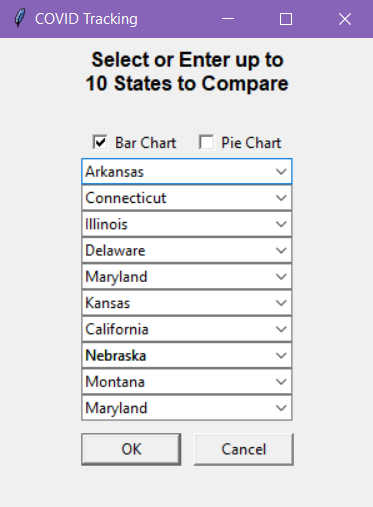
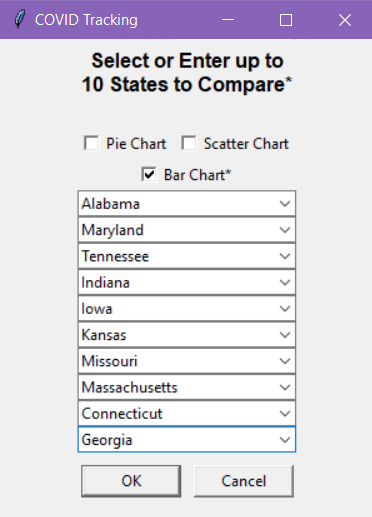
Formatting Scatter Plot

diff --git a/src/dialog.py b/src/dialog.py
@@ -135,7 +135,7 @@ class CompareDialog(Dialog):
 
         for item in state_to_abbrev: self.states.append(item)
 
-        Label(master, text="Select or Enter up to\n10 States to Compare",
+        Label(master, text="Select or Enter up to\n10 States to Compare*",
             font=('Roboto', 12, 'bold')).grid(row=0, column=0, columnspan=2, rowspan=2)
 
         self.warning = Label(master, text="", font=('roboto', 10))
@@ -166,7 +166,7 @@ class CompareDialog(Dialog):
                 self.warning.config(text="")
                 self.graph_type = 5
             
-        check_btn1 = Checkbutton(master, text = 'Bar Chart', variable = check_1,
+        check_btn1 = Checkbutton(master, text = 'Bar Chart*', variable = check_1,
             onvalue = 1, offvalue = 0, command=checkcheckbox)
         check_btn2 = Checkbutton(master, text = 'Pie Chart', variable = check_2,
             onvalue = 1, offvalue = 0, command=checkcheckbox)
